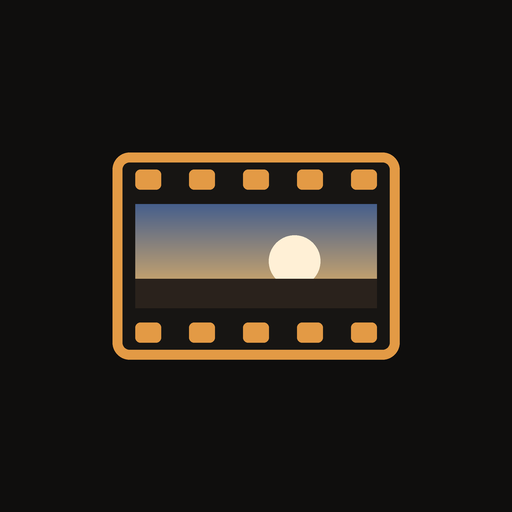
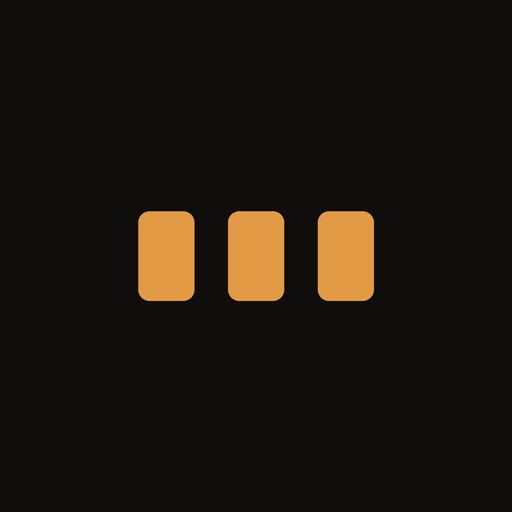
Rename to Ernest Lab (an Ernest Studios app)
- App, page title, About ("An Ernest Studios app"), messages, test still,
  exports (ernest_lab_*.zip, ErnestLab_*.cube, cube TITLE), look.json
  app field, share title, manifest name, service worker cache
  (ernestlab-*, old filmlab-* caches cleaned up).
- New icon: the header's three orange perfs (192, 512, maskable,
  apple-touch).
- localStorage keys keep the "filmlab." prefix so looks saved before the
  rename stay available (verified).
- README / ROADMAP: new name, Pages URL ernestdios.github.io/ErnestLab/.

Claude-Session: https://claude.ai/code/session_019BuCnSyppBWf6bk7Rp2sZ5

Changed region(s): [[0.2188, 0.2812, 0.7812, 0.7188]]

diff --git a/index.html b/index.html
@@ -3,7 +3,7 @@
 <head>
 <meta charset="utf-8">
 <meta name="viewport" content="width=device-width, initial-scale=1">
-<title>Film Lab</title>
+<title>Ernest Lab</title>
 <style>
 /* IBM Plex (SIL Open Font License 1.1, see licenses/IBM-Plex-OFL.txt), latin subset, embedded so the page makes no third-party requests */
[1 lines of base64/hex data omitted]
@@ -160,7 +160,7 @@ input.hue::-moz-range-track{height:5px;background:linear-gradient(90deg,#f33,#fa
 </head>
 <body>
 <header>
-  <h1><span class="perf"><i></i><i></i><i></i></span>Film Lab <button class="ver" id="ver" title="About Film Lab"></button></h1>
+  <h1><span class="perf"><i></i><i></i><i></i></span>Ernest Lab <button class="ver" id="ver" title="About Ernest Lab"></button></h1>
   <a class="support" id="support" target="_blank" rel="noopener" hidden>☕ Buy me a coffee</a>
   <span class="meta" id="meta">—</span>
   <span class="spacer"></span>
@@ -236,18 +236,18 @@ input.hue::-moz-range-track{height:5px;background:linear-gradient(90deg,#f33,#fa
       <button class="btn" id="btnCube">Export look as .cube</button>
       <input type="file" id="lutIn" accept=".cube,.CUBE,text/plain" hidden>
     </div>
-    <div class="note" id="lutNote">No external LUT loaded. The exported .cube holds the colour part of the look (exposure, balance, curve, colour, split tone, loaded LUT) as a 33-point LUT for Rec.709/sRGB display-referred images. In an ACES pipeline, apply it after the output transform. Grain, halation, aberration, softness and vignette are spatial and stay in Film Lab.</div>
+    <div class="note" id="lutNote">No external LUT loaded. The exported .cube holds the colour part of the look (exposure, balance, curve, colour, split tone, loaded LUT) as a 33-point LUT for Rec.709/sRGB display-referred images. In an ACES pipeline, apply it after the output transform. Grain, halation, aberration, softness and vignette are spatial and stay in Ernest Lab.</div>
   </div>
 </aside>
 
 <div id="toast"></div>
 <div class="modal" id="aboutModal" role="dialog" aria-modal="true" aria-labelledby="aboutTitle">
   <div class="card about">
-    <h2 id="aboutTitle">Film Lab <span class="ver" id="aboutVer"></span></h2>
+    <h2 id="aboutTitle">Ernest Lab <span class="ver" id="aboutVer"></span></h2>
     <p>Film looks for digital stills: development, film-stock colour, lens, halation and three-layer emulsion grain, processed in scene-linear light in the order a lens and a negative would.</p>
-    <p><b>Private by design.</b> Everything runs in your browser with WebGL2. Your images never leave your device: Film Lab uploads nothing, has no account, no analytics and no tracking, and loads nothing from other sites. The page itself is hosted on GitHub Pages.</p>
-    <p class="k">Film stock names describe the stocks that inspired each look. Film Lab is not affiliated with or endorsed by any film manufacturer; the looks are original approximations, not measured profiles.</p>
-    <p class="k">Made by Ernest Dios Viaplana. MIT License © 2026. Interface fonts: IBM Plex (SIL Open Font License).</p>
+    <p><b>Private by design.</b> Everything runs in your browser with WebGL2. Your images never leave your device: Ernest Lab uploads nothing, has no account, no analytics and no tracking, and loads nothing from other sites. The page itself is hosted on GitHub Pages.</p>
+    <p class="k">Film stock names describe the stocks that inspired each look. Ernest Lab is not affiliated with or endorsed by any film manufacturer; the looks are original approximations, not measured profiles.</p>
+    <p class="k">An Ernest Studios app, made by Ernest Dios Viaplana. MIT License © 2026. Interface fonts: IBM Plex (SIL Open Font License).</p>
     <div class="row"><a class="btn primary" id="aboutSupport" target="_blank" rel="noopener" hidden>☕ Buy me a coffee</a><span class="spacer"></span><button class="btn" id="btnCloseAbout">Close</button></div>
   </div>
 </div>
@@ -459,6 +459,7 @@ const PRESETS = {
 };
 
 let userLooks = {};
+/* Storage keys keep the original "filmlab." prefix so looks saved before the rename stay available. */
 try { userLooks = JSON.parse(localStorage.getItem("filmlab.looks") || "{}"); } catch(e) { userLooks = {}; }
 function saveUserLooks(){ try { localStorage.setItem("filmlab.looks", JSON.stringify(userLooks)); } catch(e){} }
 
@@ -563,7 +564,7 @@ function setBypass(id,off){ bypass[id]=!!off; const x=bypassEls[id]; if (x){ x.b
 /* ---------------- WebGL ---------------- */
 const canvas=$("gl");
 const gl=canvas.getContext("webgl2",{preserveDrawingBuffer:true,antialias:false,premultipliedAlpha:false,alpha:false});
-if (!gl){ document.body.innerHTML='<p style="padding:24px">This browser has no WebGL2, which Film Lab needs. Try a recent Chrome, Edge, Firefox or Safari.</p>'; throw new Error("no webgl2"); }
+if (!gl){ document.body.innerHTML='<p style="padding:24px">This browser has no WebGL2, which Ernest Lab needs. Try a recent Chrome, Edge, Firefox or Safari.</p>'; throw new Error("no webgl2"); }
 const hasFloat = !!gl.getExtension("EXT_color_buffer_float");
 const MAXTEX = gl.getParameter(gl.MAX_TEXTURE_SIZE);
 const IFMT = hasFloat ? gl.RGBA16F : gl.RGBA8;
@@ -866,7 +867,7 @@ function schedule(){ editStamp++; if (rafId) return; rafId=requestAnimationFrame
 
 async function addFiles(files){
   const list=[...files].filter(f=>f.type.startsWith("image/")||/\.(png|jpe?g|webp|tiff?|bmp|avif)$/i.test(f.name));
-  if (!list.length){ toast("Those files are not images Film Lab can read. Use PNG, JPEG or WebP."); return; }
+  if (!list.length){ toast("Those files are not images Ernest Lab can read. Use PNG, JPEG or WebP."); return; }
   let first=-1;
   for (const f of list){
     try{
@@ -916,7 +917,7 @@ async function makeSample(){
   const sw=["#c13a2c","#e0742c","#e7c23c","#6aa244","#2f8f8a","#2f5ea8","#7a4aa0","#d7a487","#8a5a3c","#f2f0ea","#8c8c8c","#1a1a1a"];
   sw.forEach((col,i)=>{ x.fillStyle=col; x.fillRect(80+i*120,640,104,104); });
   for(let i=0;i<256;i++){ x.fillStyle=`rgb(${i},${i},${i})`; x.fillRect(80+i*(1424/256),770,6,50); }
-  x.fillStyle="#f2f0ea"; x.font="600 22px 'IBM Plex Sans Condensed', sans-serif"; x.fillText("FILM LAB TEST STILL · drop your frames to replace it",80,860);
+  x.fillStyle="#f2f0ea"; x.font="600 22px 'IBM Plex Sans Condensed', sans-serif"; x.fillText("ERNEST LAB TEST STILL · drop your frames to replace it",80,860);
   const bmp=await createImageBitmap(c,{premultiplyAlpha:"none",colorSpaceConversion:"none"});
   const url=c.toDataURL("image/jpeg",0.8);
   items.push({name:"test-still",bmp,url,sample:true}); cur=items.length-1;
@@ -957,7 +958,7 @@ $("btnExportAll").addEventListener("click", async()=>{
     if (Object.keys(dv).length) lj.development=dv;   /* per-image source prep, for the record (not loaded as part of the look) */
     files.push({name:"look.json", data:new TextEncoder().encode(JSON.stringify(lj,null,2))});
     btn.textContent="Zipping…"; const zip=makeZip(files);
-    await offer(`film_lab_${slug(presetName)}.zip`, new Blob([zip],{type:"application/zip"}));
+    await offer(`ernest_lab_${slug(presetName)}.zip`, new Blob([zip],{type:"application/zip"}));
   } finally { btn.disabled=false; btn.textContent="Export all (.zip)"; select(keep); }
 });
 
@@ -1017,12 +1018,12 @@ async function buildCube(N=33){
   gl.drawArrays(gl.TRIANGLES,0,3);
   let px; if (hasFloat){ px=new Float32Array(W*H*4); gl.readPixels(0,0,W,H,gl.RGBA,gl.FLOAT,px); } else { const b=new Uint8Array(W*H*4); gl.readPixels(0,0,W,H,gl.RGBA,gl.UNSIGNED_BYTE,b); px=Float32Array.from(b,v=>v/255); }
   gl.deleteFramebuffer(fb); gl.deleteTexture(src); gl.deleteTexture(out);
-  let s=`TITLE "Film Lab - ${presetName.replace(/"/g,"")}"\n# Display-referred Rec.709/sRGB in and out. Colour only: no grain, halation or lens effects.\nLUT_3D_SIZE ${N}\nDOMAIN_MIN 0 0 0\nDOMAIN_MAX 1 1 1\n`;
+  let s=`TITLE "Ernest Lab - ${presetName.replace(/"/g,"")}"\n# Display-referred Rec.709/sRGB in and out. Colour only: no grain, halation or lens effects.\nLUT_3D_SIZE ${N}\nDOMAIN_MIN 0 0 0\nDOMAIN_MAX 1 1 1\n`;
   for(let b=0;b<N;b++) for(let g=0;g<N;g++) for(let r=0;r<N;r++){ const i=(g*W+(r+b*N))*4; s+=`${px[i].toFixed(6)} ${px[i+1].toFixed(6)} ${px[i+2].toFixed(6)}\n`; }
   schedule(); return s;
 }
 $("btnCube").addEventListener("click", async()=>{
-  const txt=await buildCube(33); const name=`FilmLab_${slug(presetName)}`;
+  const txt=await buildCube(33); const name=`ErnestLab_${slug(presetName)}`;
   const zip=makeZip([{name:name+".cube",data:new TextEncoder().encode(txt)},{name:"look.json",data:new TextEncoder().encode(JSON.stringify(lookJSON(),null,2))}]);
   await offer(name+"_cube.zip", zip);
 });
@@ -1032,8 +1033,8 @@ $("btnCube").addEventListener("click", async()=>{
    3 = v0.3 (emulsion grain layers: gAmt*, gSize*, gClump*; older files get the colour-negative defaults).
    The slider values mean the same in both, so format 1 loads unchanged. Future changes migrate here. */
 const LOOK_FORMAT=3;
-function migrateLook(j){ const f=+j.format||1; if (f>LOOK_FORMAT) toast("This look was saved by a newer Film Lab; some settings may be ignored.",4000); return j; }
-function lookJSON(){ return {app:"Film Lab", appVersion:APP_VERSION, format:LOOK_FORMAT, name:presetName, base:presetName, strength:lookMix, values:Object.fromEntries(Object.keys(DEF).map(k=>[k,+(+base[k]).toFixed(4)]))}; }
+function migrateLook(j){ const f=+j.format||1; if (f>LOOK_FORMAT) toast("This look was saved by a newer Ernest Lab; some settings may be ignored.",4000); return j; }
+function lookJSON(){ return {app:"Ernest Lab", appVersion:APP_VERSION, format:LOOK_FORMAT, name:presetName, base:presetName, strength:lookMix, values:Object.fromEntries(Object.keys(DEF).map(k=>[k,+(+base[k]).toFixed(4)]))}; }
 $("preset").addEventListener("change",ev=>{ const v=ev.target.value; applyPreset(v.slice(2), v.startsWith("u:")); });
 $("mix").addEventListener("input",ev=>{ lookMix=+ev.target.value; $("mixOut").textContent=Math.round(lookMix*100)+"%"; schedule(); });
 $("btnReset").addEventListener("click",()=>{ base=Object.assign({},presetVals); lookMix=1; syncUI(); schedule(); });
@@ -1074,7 +1075,7 @@ async function loadLookFiles(files){
     saveUserLooks(); applyPreset(last.n,true); lookMix=last.strength; syncUI(); schedule(); buildPresetSelect(); $("preset").value="u:"+last.n; $("btnDelLook").disabled=false;
     toast(ok===1 ? `Loaded look "${last.n}" and added it to My looks.` : `Loaded ${ok} looks into My looks; showing "${last.n}".`);
   }
-  if (bad.length) toast((ok?`Loaded ${ok}. `:"")+`${bad.join(", ")} ${bad.length===1?"is":"are"} not a Film Lab look file.`, 4000);
+  if (bad.length) toast((ok?`Loaded ${ok}. `:"")+`${bad.join(", ")} ${bad.length===1?"is":"are"} not an Ernest Lab look file.`, 4000);
 }
 const isJsonFile=f=>/\.json$/i.test(f.name)||f.type==="application/json";
 function handleDropped(fileList){
@@ -1103,7 +1104,7 @@ $("btnShare").addEventListener("click", async()=>{
   try{
     /* Some browsers (Safari) only allow sharing right after the tap: reuse a render made for the same edit. */
     if (!shareCache || shareCache.stamp!==editStamp || shareCache.type!==t){ shareCache={stamp:editStamp,type:t,file:new File([await renderToBlob(t,q)], shareName(ext), {type:t})}; }
-    await navigator.share({files:[shareCache.file], title:"Film Lab"});
+    await navigator.share({files:[shareCache.file], title:"Ernest Lab"});
   }catch(err){
     if (err && err.name==="AbortError") return;
     if (err && err.name==="NotAllowedError") { toast("Ready — tap Share again to open the share menu."); return; }

diff --git a/sw.js b/sw.js
@@ -1,14 +1,14 @@
-/* Film Lab offline support. Bump CACHE with every release (keep in step with APP_VERSION in index.html).
+/* Ernest Lab offline support. Bump CACHE with every release (keep in step with APP_VERSION in index.html).
    The page: network first (so a new release shows up as soon as you're online), cache when offline.
    Icons and manifest: cache first. Images you open never pass through here: they're read locally. */
-const CACHE = "filmlab-0.4.0";
+const CACHE = "ernestlab-0.4.0";
 const ASSETS = ["./", "./index.html", "./manifest.webmanifest", "./icons/icon-192.png", "./icons/icon-512.png", "./icons/icon-maskable-512.png", "./icons/apple-touch-icon.png"];
 
 self.addEventListener("install", e => {
   e.waitUntil(caches.open(CACHE).then(c => c.addAll(ASSETS)).then(() => self.skipWaiting()));
 });
 self.addEventListener("activate", e => {
-  e.waitUntil(caches.keys().then(keys => Promise.all(keys.filter(k => k.startsWith("filmlab-") && k !== CACHE).map(k => caches.delete(k))))
+  e.waitUntil(caches.keys().then(keys => Promise.all(keys.filter(k => (k.startsWith("ernestlab-") || k.startsWith("filmlab-")) && k !== CACHE).map(k => caches.delete(k))))
     .then(() => self.clients.claim()));
 });
 self.addEventListener("fetch", e => {

diff --git a/README.md b/README.md
@@ -1,8 +1,10 @@
-# Film Lab
+# Ernest Lab
+
+*An Ernest Studios app.*
 
 A browser app that gives digital stills a cinematographic film look: film-stock colour, halation, lens character and grain.
 
-Everything runs locally in your browser with WebGL2. **Your images never leave your machine.** Film Lab uploads nothing, has no account, no analytics and no tracking, and loads nothing from other sites (fonts are embedded). The page is hosted on GitHub Pages.
+Everything runs locally in your browser with WebGL2. **Your images never leave your machine.** Ernest Lab uploads nothing, has no account, no analytics and no tracking, and loads nothing from other sites (fonts are embedded). The page is hosted on GitHub Pages.
 
 > Status: working app for 8-bit images (JPEG, PNG, WebP). RAW support is on the [roadmap](ROADMAP.md).
 
@@ -10,9 +12,9 @@ Everything runs locally in your browser with WebGL2. **Your images never leave y
 
 ## Use it
 
-**Online:** open **https://ernestdios.github.io/FilmLab/** in a recent Chrome, Edge, Firefox or Safari.
+**Online:** open **https://ernestdios.github.io/ErnestLab/** in a recent Chrome, Edge, Firefox or Safari.
 
-**Install it as an app (optional):** in Chrome or Edge use the **Install** button in the address bar; on iPhone or Android use **Share → Add to Home Screen**. Film Lab then opens in its own window with its own icon and **works offline**. It updates itself when a new version is published.
+**Install it as an app (optional):** in Chrome or Edge use the **Install** button in the address bar; on iPhone or Android use **Share → Add to Home Screen**. Ernest Lab then opens in its own window with its own icon and **works offline**. It updates itself when a new version is published.
 
 **Offline download:** grab `index.html` from the latest release and open it. It's a single self-contained file (fonts included) with no build step and no dependencies.
 
@@ -37,8 +39,8 @@ Drop images on the window, pick a format and a film look, adjust, and export or 
 **Output:**
 - Export the current still at full resolution (JPEG 95 or PNG).
 - Export all stills as one zip, with the look's `look.json`.
-- **Share…** hands the finished image to your device's share menu (on phones: Instagram, WhatsApp, TikTok, Messages…), and **Copy image** puts it on the clipboard for pasting into web composers. Nothing is uploaded by Film Lab; each button appears only where the browser supports it.
-- Export the look's colour part as a 33-point `.cube` LUT (Rec.709/sRGB display-referred; in an ACES pipeline apply it after the output transform). Grain, halation, aberration, softness and vignette are spatial and stay in Film Lab.
+- **Share…** hands the finished image to your device's share menu (on phones: Instagram, WhatsApp, TikTok, Messages…), and **Copy image** puts it on the clipboard for pasting into web composers. Nothing is uploaded by Ernest Lab; each button appears only where the browser supports it.
+- Export the look's colour part as a 33-point `.cube` LUT (Rec.709/sRGB display-referred; in an ACES pipeline apply it after the output transform). Grain, halation, aberration, softness and vignette are spatial and stay in Ernest Lab.
 
 ## How it works
 
@@ -55,10 +57,10 @@ The `.cube` export renders the grade shader over an identity 33³ texture and re
 
 ## Film stock names
 
-Preset names refer to the film stocks that inspired them. Film Lab is not affiliated with or endorsed by Kodak, Fujifilm, Ilford, CineStill or any other manufacturer. The presets are original approximations, not measured profiles.
+Preset names refer to the film stocks that inspired them. Ernest Lab is not affiliated with or endorsed by Kodak, Fujifilm, Ilford, CineStill or any other manufacturer. The presets are original approximations, not measured profiles.
 
 ## License
 
 [MIT](LICENSE) © 2026 Ernest Dios Viaplana. Interface fonts: IBM Plex, [SIL Open Font License 1.1](licenses/IBM-Plex-OFL.txt).
 
-If Film Lab is useful to you, you can [buy me a coffee](https://buymeacoffee.com/ernestdios) ☕
+If Ernest Lab is useful to you, you can [buy me a coffee](https://buymeacoffee.com/ernestdios) ☕

diff --git a/ROADMAP.md b/ROADMAP.md
@@ -1,4 +1,4 @@
-# Roadmap
+# Roadmap — Ernest Lab
 
 Order matters: step 1 changes the colour pipeline that every later control lives in, so it comes before adding more controls. Effects run in physical order internally (optics before the film curve); there is no separate post-grade stage.
 
@@ -52,7 +52,7 @@ Move the grade from display-referred sRGB to a scene-linear working space. 8-bit
 - [ ] Memory limits for big files (40–100 MP)
 
 ## Release prep (open source)
-- [ ] Check the name ("Film Lab" may be taken) before announcing
+- [x] Name: renamed to **Ernest Lab** (an Ernest Studios app) after "Film Lab", Revela, Emulsio, Darkroom etc. turned out taken in the photo-app space; repo renamed to ErnestLab
 - [x] Rename presets and grain stocks to own names tagged "-inspired", e.g. "Tungsten 500 (Vision3 500T-inspired)"; "ALDI pitch" look → Warm Muted; new Cold Muted preset
 - [x] About panel: license, credits, support link
 - [ ] GitHub Pages hosting (repo public → Settings → Pages → main / root); PWA install + offline ready (manifest, sw.js, icons, .nojekyll)
